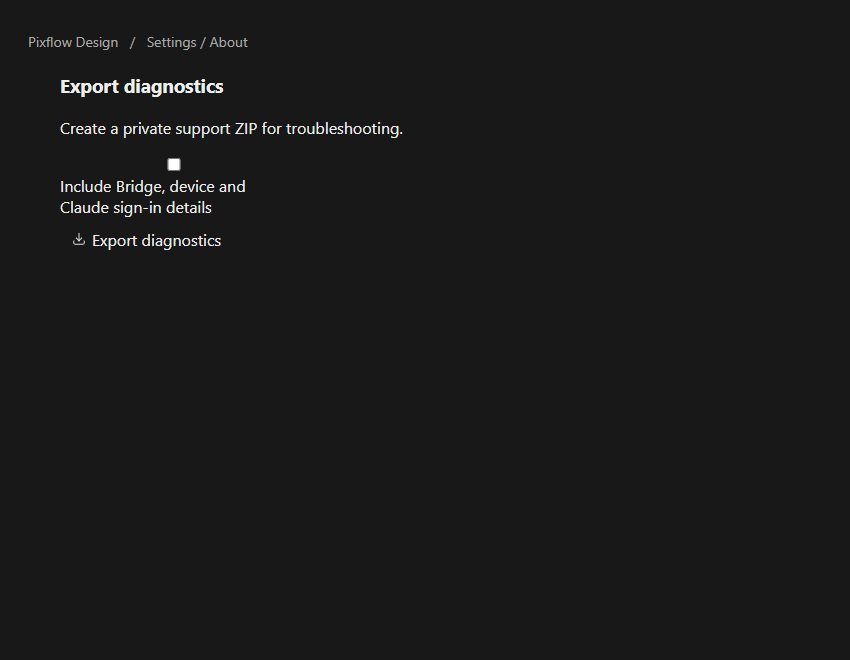
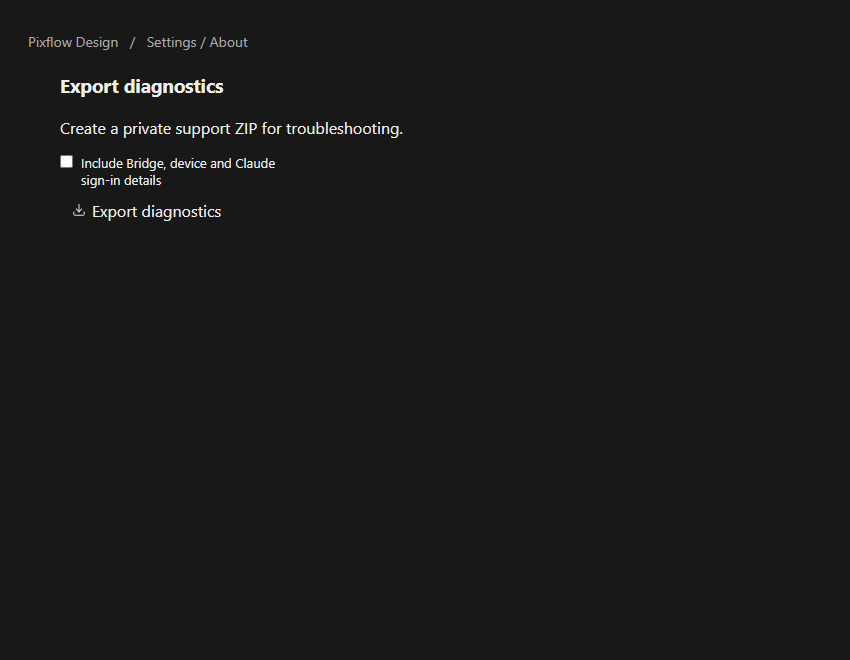
Keep the diagnostics opt-in aligned with its label

Changed region(s): [[0.0612, 0.2121, 0.3365, 0.3333], [0.0918, 0.3636, 0.2447, 0.3939]]

diff --git a/apps/web/src/components/ExportDiagnosticsButton.tsx b/apps/web/src/components/ExportDiagnosticsButton.tsx
@@ -5,6 +5,7 @@ import { pixflowWordPressRestFetch } from '../pixflow/runtime-fetch';
 import { getPixflowWordPressConfig, hasPixflowWordPressContext } from '../pixflow/wordpress-context';
 import { pixflowClientDiagnosticsSnapshot } from '../pixflow/client-diagnostics';
 import { collectBridgeSupport } from '../pixflow/support-diagnostics';
+import styles from './ExportDiagnosticsButton.module.css';
 
 // Mirrors what apps/desktop preload exposes via contextBridge. Kept inline
 // so the web bundle does not import the desktop package.
@@ -256,9 +257,9 @@ export function ExportDiagnosticsRow() {
   const busy = status.kind === 'busy';
   return (
     <div className="diagnostics-export-row">
-      {hasPixflowWordPressContext() && <label>
-        <input type="checkbox" checked={includeDevice} disabled={busy} onChange={event => setIncludeDevice(event.target.checked)} />{' '}
-        {t('diagnostics.includeBridge')}
+      {hasPixflowWordPressContext() && <label className={styles.deviceOption}>
+        <input type="checkbox" checked={includeDevice} disabled={busy} onChange={event => setIncludeDevice(event.target.checked)} />
+        <span>{t('diagnostics.includeBridge')}</span>
       </label>}
       <button
         type="button"

diff --git a/apps/web/src/components/ExportDiagnosticsButton.module.css b/apps/web/src/components/ExportDiagnosticsButton.module.css
@@ -1,0 +1,15 @@
+.deviceOption {
+  display: inline-flex;
+  align-items: baseline;
+  gap: 8px;
+  font-size: 13px;
+  cursor: pointer;
+}
+
+.deviceOption input[type="checkbox"] {
+  flex: none;
+  width: 1em;
+  height: 1em;
+  margin: 0;
+  accent-color: var(--accent);
+}
